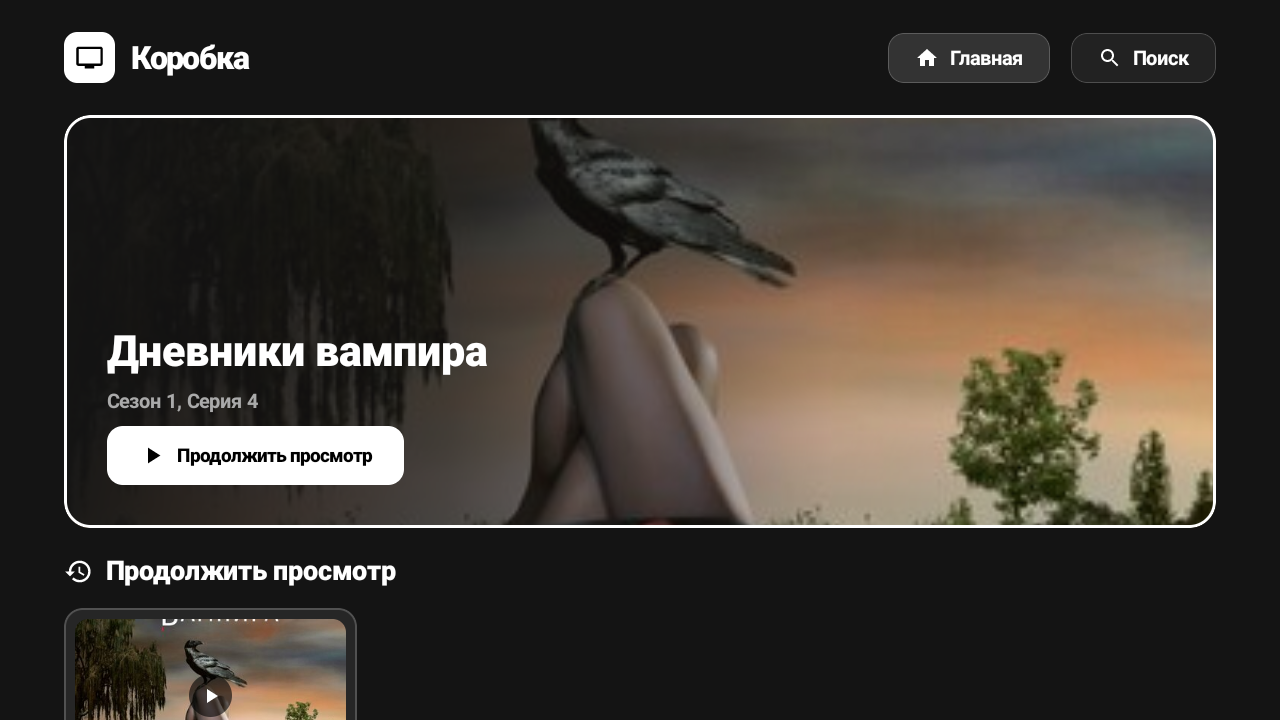
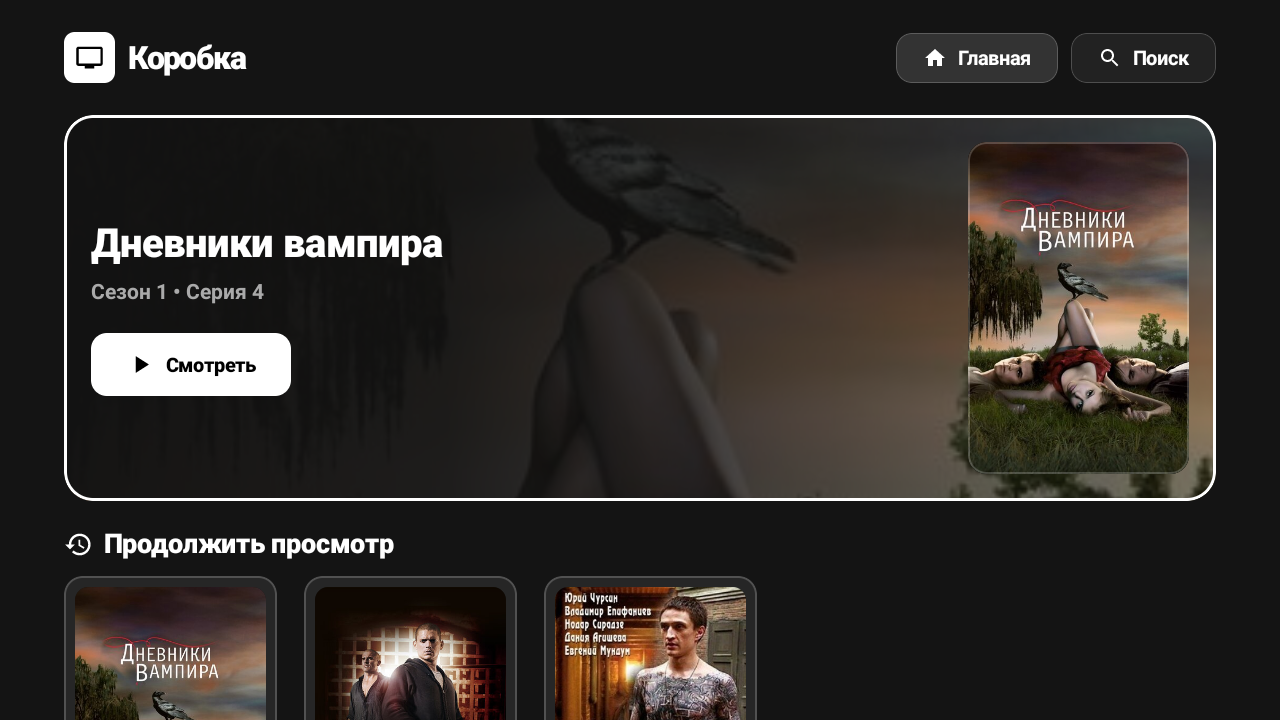
docs: update README and real device screenshots with cinema hero and vertical cards

diff --git a/README.md b/README.md
@@ -1,47 +1,63 @@
 # Коробка TV (Box-TV)
 
-Нативное Android TV приложение для комфортного просмотра фильмов и сериалов. Разработано с нуля на **Jetpack Compose for TV** и **Media3 ExoPlayer** без использования WebView, оптимизировано под управление стандартным пультом D-Pad и просмотр на проекторах.
+Нативное Android приложение для комфортного просмотра фильмов и сериалов на **Android TV, проекторах, планшетах и смартфонах**. 
+
+Разработано на **Kotlin**, **Jetpack Compose** и **Media3 ExoPlayer** без использования WebView и лишних оберток.
 
 ---
 
 ## 📺 Скриншоты с устройства Android TV
 
-| Главный экран (Hero + Продолжить просмотр) | Воспроизведение |
+| Главный экран (Hero-баннер + Продолжить просмотр) | Экран поиска и экранная клавиатура |
 |:---:|:---:|
-| ![Главная](screenshots/main_screen.png) | ![Воспроизведение](screenshots/search_screen.png) |
+| ![Главная](screenshots/main_screen.png) | ![Поиск](screenshots/search_screen.png) |
 
 ---
 
-## ✨ Особенности
+## ✨ Ключевые возможности
 
-- **100% Native Kotlin & Jetpack Compose**: молниеносный UI без тормозов WebView и лагов рендеринга на ТВ-приставках.
-- **ExoPlayer Media3**:
-  - Адаптивное HLS воспроизведение.
-  - Мгновенное бесшовное переключение аудиодорожек и студий озвучки (LostFilm, Кубик в Кубе, Дубляж и др.) прямо во время воспроизведения без сброса позиции.
-  - Выбор качества потока (1080p FHD, 720p HD, 480p SD).
-  - Удобный таймлайн перемотки с шагом 10 секунд и отображением буфера.
-- **Автоматический переход к следующей серии**:
-  - По окончании серии всплывает диалоговое окно «Перейти к следующей серии?».
-  - Нажатие `OK` сразу запускает следующую серию (с автоматическим переходом на следующий сезон, если сезон подошел к концу).
-- **Навигация сезонов без ложных срабатываний**:
-  - Пролистывание сезонов в нижнем меню не сбрасывает и не перезапускает текущую серию; видео переключается только при явном клике по нужной серии.
-- **Оптимизация под проекторы и ТВ**:
-  - Высококонтрастный строгий темный UI (`#0F0F0F`).
-  - Аккуратное, четкое выделение фокуса активного элемента (инверсия в белый цвет + тонкая окантовка 1.5dp) без дергания и искажения масштаба (`scale`).
-- **Поиск**:
-  - Интегрированная нативная D-Pad клавиатура.
-  - Поиск по каталогу через открытые API без блокировок и лимитов 429.
-- **История просмотров и Избранное**:
-  - Автоматическое сохранение позиции воспроизведения, сезона, серии и выбранной звуковой дорожки каждые несколько секунд.
+### 🎨 Кинематографичный интерфейс
+- **Премиальный Hero-баннер**:
+  - Атмосферный фон с сильным размытием обложки (`blur(32.dp)`).
+  - Мягкий полупрозрачный градиент для кристальной читаемости текста.
+  - Высокий четкий постер **2:3** в правой части карточки.
+- **Единый стиль карточек**:
+  - Карточки в разделах «Продолжить просмотр», «Избранное» и «Поиск» выполнены в едином вертикальном киноформате **2:3**.
+  - На постерах истории отображается красная линия прогресса досмотренности.
+  - Названия строго зафиксированы в 2 строки без скачков и сдвигов соседних элементов.
+
+### 📱 Полная адаптивность (TV, Проекторы, Телефоны, Планшеты)
+- **Android TV и проекторы**:
+  - Управление стандартным пультом D-Pad.
+  - Тонкая аккуратная обводка активного элемента (1.5dp) с инверсией цвета для четкой видимости на любых проекторах без скачков масштаба.
+- **Смартфоны и планшеты**:
+  - Поддержка вертикальной ориентации (Portrait) и автоповорота.
+  - Результаты поиска отображаются в адаптивной двухколоночной сетке.
+  - Поддержка нативной системной клавиатуры (Gboard, Samsung Keyboard и др.) с клавишей поиска.
+  - Свайп снизу вверх в плеере для быстрого вызова настроек серий и озвучки.
+
+### 🎬 Плеер ExoPlayer (Media3)
+- Мгновенное бесшовное переключение аудиодорожек и студий озвучки (LostFilm, Кубик в Кубе, Дубляж и др.) без сброса позиции.
+- Выбор качества потока (1080p FHD, 720p HD, 480p SD).
+- **Плавающая подсказка при паузе**: при остановке видео снизу мягко появляется ненавязчивое затенение с крупной подсказкой перехода в меню (открывается кликом, свайпом вверх или стрелкой вниз на пульте).
+- **Умное меню серий**: перелистывание сезонов не прерывает просмотр текущей серии до явного выбора.
+- **Автопереход к следующей серии**: диалоговое окно в конце серии с возможностью мгновенного запуска следующего эпизода или следующего сезона.
+- Автоматическое сохранение таймкода и озвучки в историю каждые несколько секунд.
 
 ---
 
-## 🛠 Сборка и установка
+## 📥 Загрузка готового APK
+
+Все готовые и подписанные сборки доступны во вкладке [Releases](https://github.com/vanqel/box-tv/releases):
+- **Последняя версия**: [Скачать APK (Releases)](https://github.com/vanqel/box-tv/releases/latest)
+
+---
+
+## 🛠 Сборка из исходников
 
 ### Требования
 - JDK 17+
-- Android SDK (API 34–36, Build-Tools)
-- Устройство Android TV / Google TV с включенной отладкой по ADB
+- Android SDK (API 34–36, Build-Tools 36+)
 
 ### Сборка релизного APK
 ```bash
@@ -50,31 +66,31 @@
 
 ### Подпись и установка через ADB
 ```bash
-# Подпись APK (например, через debug keystore)
+# 1. Подпись сгенерированного APK
 apksigner sign --ks ~/.android/debug.keystore \
   --ks-pass pass:android \
   --key-pass pass:android \
   app/build/outputs/apk/release/app-release-unsigned.apk
 
-# Установка на приставку по Wi-Fi
-adb connect <IP_АДРЕС_ТВ>:5555
-adb -s <IP_АДРЕС_ТВ>:5555 install -r app/build/outputs/apk/release/app-release-unsigned.apk
+# 2. Установка на Android TV или смартфон
+adb connect <IP_АДРЕС>:5555
+adb install -r app/build/outputs/apk/release/app-release-unsigned.apk
 ```
 
 ---
 
-## 🏗 Архитектура
+## 🏗 Архитектура проекта
 
 ```
 app/src/main/java/com/korobka/tv/
-├── MainActivity.kt               # Точка входа Leanback launcher
+├── MainActivity.kt               # Точка входа в приложение (TV Leanback & Mobile)
 ├── ui/
-│   └── MainTvScreen.kt           # Главный экран Compose TV (Hero, ряды, табы, поиск)
+│   └── MainTvScreen.kt           # Главный экран Compose (Hero, постеры 2:3, поиск, клавиатура)
 ├── player/
-│   └── NativePlayerActivity.kt   # Полноэкранный ExoPlayer, меню аудио/серий/качества, D-Pad
+│   └── NativePlayerActivity.kt   # ExoPlayer, D-Pad и тач-управление, оверлеи, озвучки, сезоны
 ├── engine/
-│   └── CdnEngine.kt              # Сетевой слой парсинга потоков и HLS мастер-манифестов
+│   └── CdnEngine.kt              # Сетевой клиент HLS потоков, парсер манифестов и метаданных
 └── data/
-    ├── Models.kt                 # Модели данных (MediaItem, Episode, Season, StreamSource)
-    └── AppStorage.kt             # Локальное хранилище истории и избранного (SharedPreferences)
+    ├── Models.kt                 # Модели (MediaItem, Episode, Season, StreamSource)
+    └── AppStorage.kt             # Локальное хранилище истории просмотров и избранного
 ```
